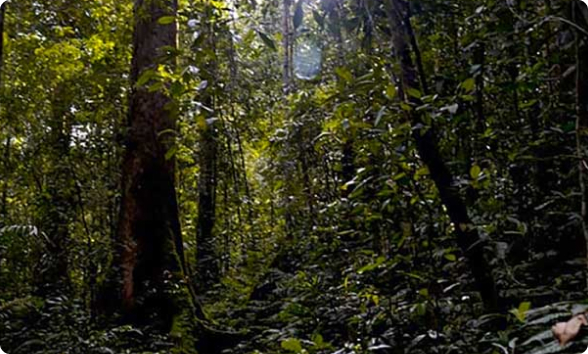
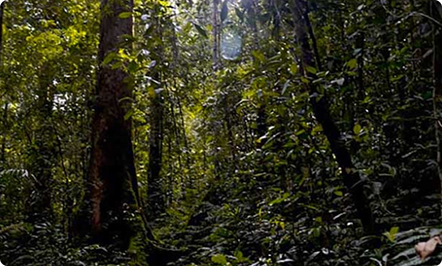
Route images size issue fixed

diff --git a/src/pages/routes.php b/src/pages/routes.php
@@ -51,7 +51,7 @@
                 <div> Distance: <span id="distance">5Km</span> </div>
             </div>
 
-            <div class="routes-card-image"><img id="routeImg" style="width: 442px;" src="../.././public/routes-1.jpg" alt="hatton nallathanni trail sri padaya"></div>
+            <div class="routes-card-image"><img id="routeImg"  src="../.././public/routes-1.jpg" alt="hatton nallathanni trail sri padaya"></div>
 
             <div class="routes-card-content">
                 <p id="routeDes">Hatton - Nallathanni route is the most famous and the shortest route among the 6 main routes. This is the route which starts from the highest elevation. Roads of this route is well paved as this is the most popular route among both local and foreign devotees. This route has stairs all the way. Drinking water and restpoints are also available there in this route. Also comparatively this route has more facilities than other routes. On this route you’ll be passing “Japanese Temple”, “Makara Thorana”, “Gangul Thenna”, “Seetha Gangula River” and the “Seetha Gangula Rest point”.</p>
